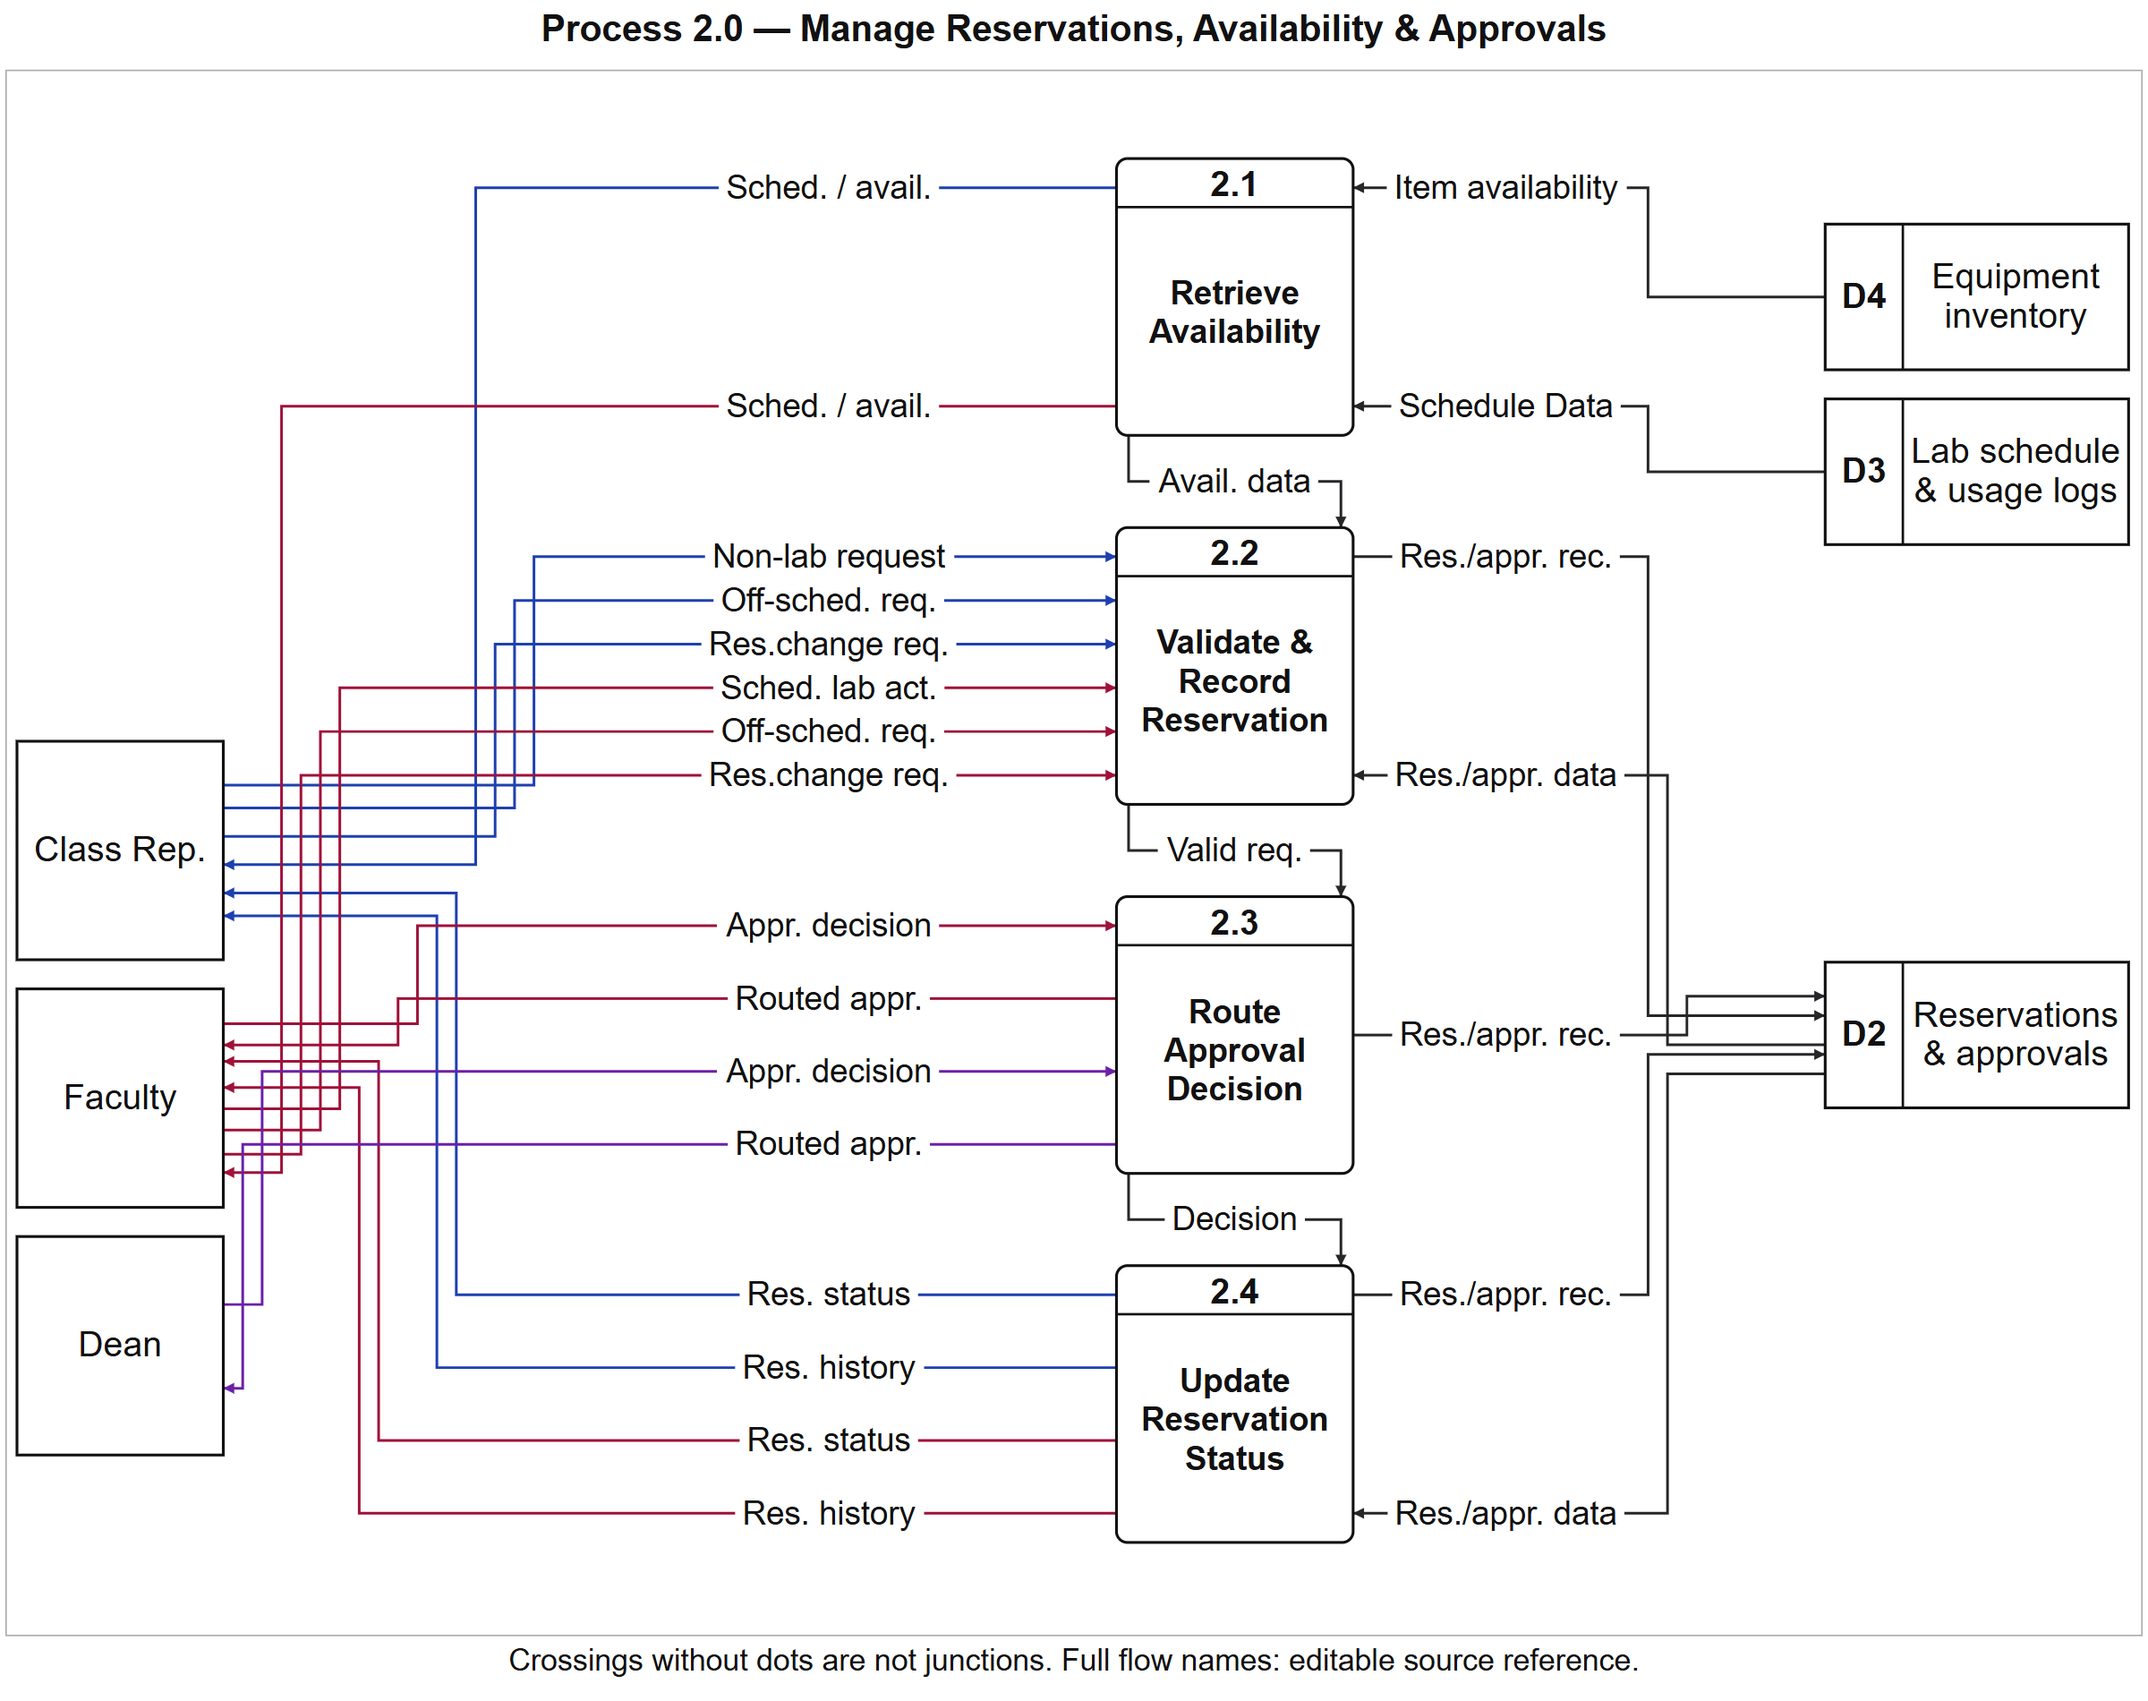
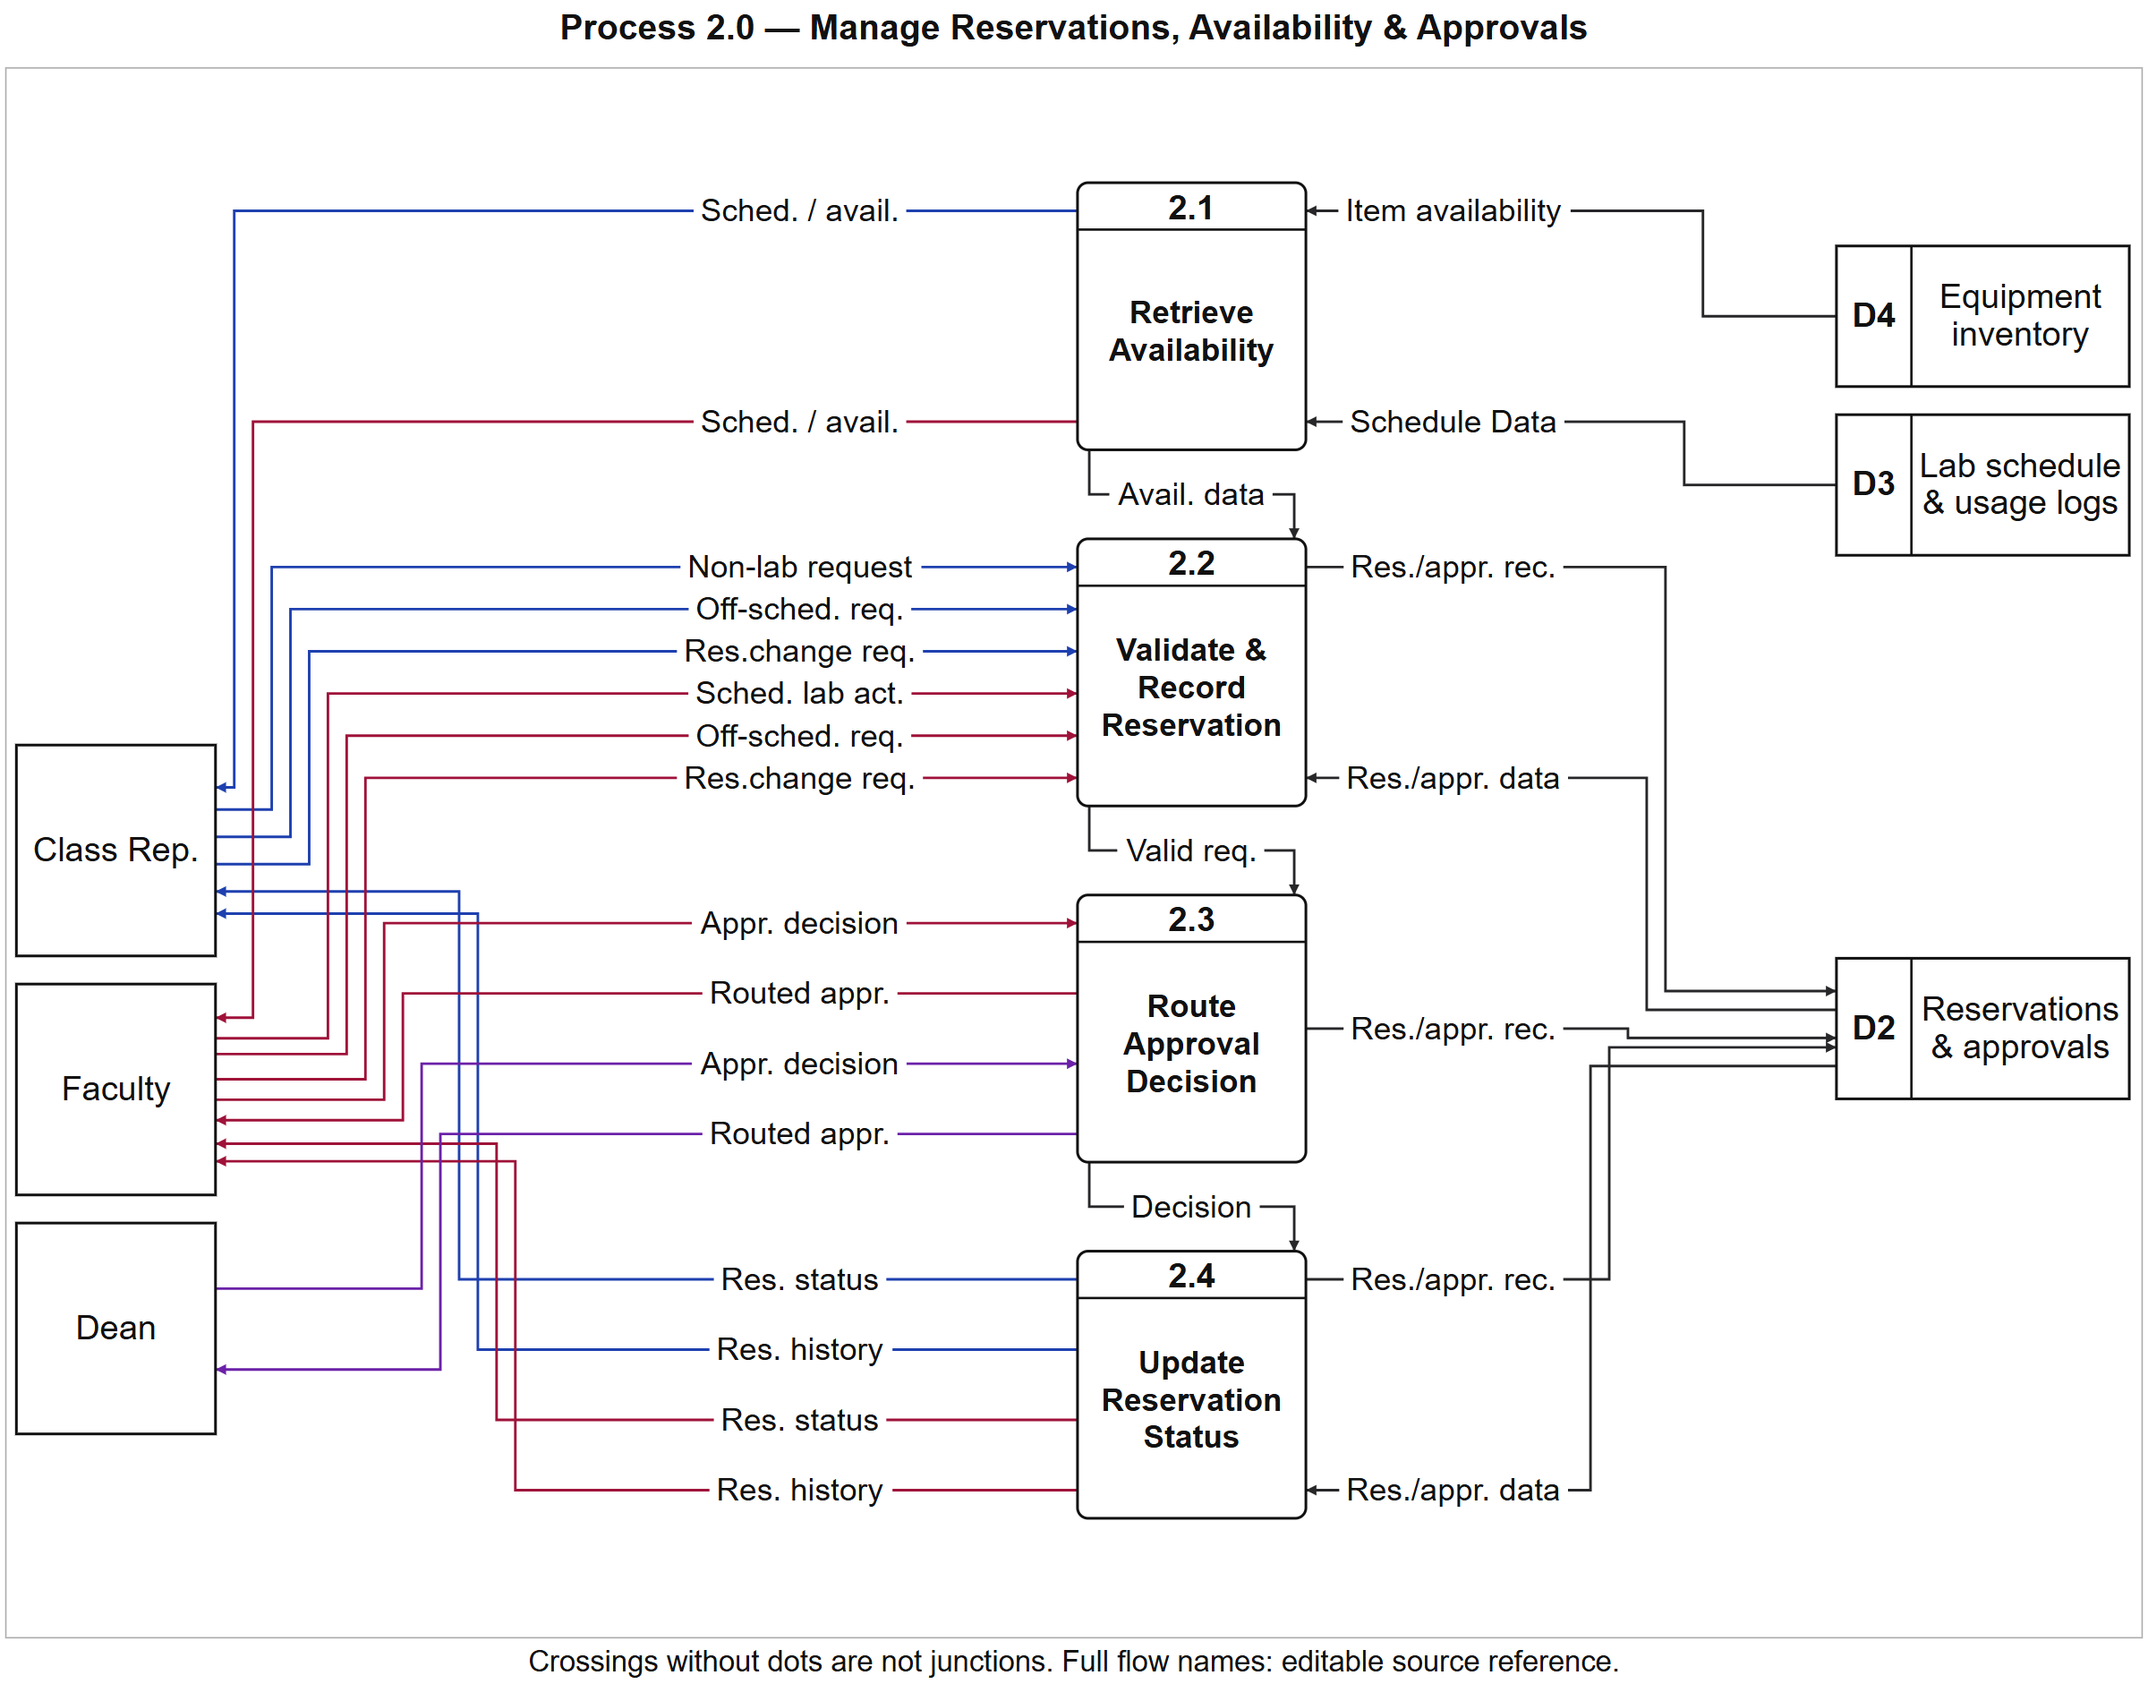
New Update

diff --git a/assets/figures-v2/dfd-level2-compact/dfd-level2-renderer.js b/assets/figures-v2/dfd-level2-compact/dfd-level2-renderer.js
@@ -4,7 +4,7 @@
 (async function(){
   'use strict';
   const params=new URLSearchParams(location.search),output=params.has('embed')||params.has('export');
-  const NS='http://www.w3.org/2000/svg',W=1770,H=1401.25,FONT=27,LABEL_GAP=6;
+  const NS='http://www.w3.org/2000/svg',W=1834,H=1451.9166666667,FONT=27,LABEL_GAP=6;
   document.body.classList.toggle('output-mode',output);
   const aliases={
     'Class Representative Credentials':'Rep. credentials',
@@ -132,7 +132,7 @@
     const targets={};
     [...actors,...stores].forEach(n=>{const links=model.flows.filter(f=>f.source===n.id||f.target===n.id);targets[n.id]=links.reduce((sum,f)=>sum+centre(nodes[f.source===n.id?f.target:f.source]),0)/links.length;});
     const E={x:14,w:170,h:Math.max(170,...actors.map(n=>model.flows.filter(f=>f.source===n.id||f.target===n.id).length*20+20))};
-    const D={x:1504,w:250,h:120,idw:64};
+    const D={x:1568,w:250,h:120,idw:64};
     // Actor order follows the approved role column; Head Laboratory remains last.
     place(actors,targets,E.h).forEach(n=>nodes[n.id]={...n,...E,kind:'entity',lines:entityLines[n.id]});
     place(stores.slice().sort((a,b)=>targets[a.id]-targets[b.id]),targets,D.h).forEach(n=>nodes[n.id]={...n,...D,kind:'store',lines:storeLines[n.id]});
@@ -158,7 +158,10 @@
       [...actors,...stores].filter(n=>(kind==='external'?actors:stores).includes(n)).forEach(n=>{
         const box=nodes[n.id],process=f=>nodes[f.source===n.id?f.target:f.source];
         const own=model.flows.filter(f=>f.source===n.id||f.target===n.id);
-        own.sort((a,b)=>Math.abs(centre(process(a))-centre(box))-Math.abs(centre(process(b))-centre(box))||process(a).y-process(b).y||model.flows.indexOf(a)-model.flows.indexOf(b));
+        // User-approved order: highest subprocess first on BOTH peer columns,
+        // regardless of direction or distance. Within a subprocess, preserve
+        // its approach-port order so paired read/write flows do not swap rows.
+        own.sort((a,b)=>process(a).y-process(b).y||flowPorts[a.id].py-flowPorts[b.id].py||model.flows.indexOf(a)-model.flows.indexOf(b));
         let previous=box.y+8;
         own.forEach((f,i)=>{
           const preferred=box.y+20+(i+.5)*(box.h-40)/own.length;let sy=null;
@@ -171,16 +174,15 @@
         });
       });
     }
-    const left=model.flows.filter(f=>f.kind==='external').sort((a,b)=>nodes[flowPorts[a.id].peer].y-nodes[flowPorts[b.id].peer].y||flowPorts[a.id].peerOrder-flowPorts[b.id].peerOrder);
-    const laneById={};left.forEach((f,i)=>laneById[f.id]=200+(left.length-1-i)*16);
-    const right=model.flows.filter(f=>f.kind==='store').sort((a,b)=>Math.min(flowPorts[a.id].py,flowPorts[a.id].sy)-Math.min(flowPorts[b.id].py,flowPorts[b.id].sy));
-    const occupied=[];
-    right.forEach((f,i)=>{
-      const {py,sy}=flowPorts[f.id],lo=Math.min(py,sy),hi=Math.max(py,sy);
-      const column=Array.from({length:9},(_,j)=>j).find(j=>occupied.every(o=>o.column!==j||Math.min(hi,o.hi)+12<Math.max(lo,o.lo)));
-      if(column===undefined)throw Error('Store lanes need more room: '+f.id);
-      occupied.push({column,lo,hi});laneById[f.id]=1358+column*16+(i+1)*.01;
-    });
+    // Mirror the vertical lane order across the process column. Earlier
+    // process ports get the outermost lane: leftmost for entities, rightmost
+    // for stores. Each flow owns a distinct lane, even for disjoint spans.
+    const processOrder=(a,b)=>flowPorts[a.id].py-flowPorts[b.id].py;
+    const left=model.flows.filter(f=>f.kind==='external').sort(processOrder);
+    const right=model.flows.filter(f=>f.kind==='store').sort(processOrder);
+    const laneById={};
+    left.forEach((f,i)=>laneById[f.id]=200+i*16);
+    right.forEach((f,i)=>laneById[f.id]=1358+(right.length-1-i)*16);
     function draw(f,points,lx,ly,label,colorKey,side){
       const path=el('path',{class:'diagram-connector','data-flow-id':f.id,d:points.map((p,i)=>(i?'L':'M')+p.join(' ')).join(' '),fill:'none',stroke:colors[colorKey]||'#27272a','stroke-width':2.2,'marker-end':'url(#arrow-'+colorKey+')'});
       const title=el('title');title.textContent=f.label;path.appendChild(title);paths.appendChild(path);
@@ -222,7 +224,7 @@
     clearLabelStrokes(svg);
     window.__level2={model,parent,nodes,routes,labelBoxes,constants:{W,H,P,E,D,FONT}};
     if(!output){
-      const authored=svg.cloneNode(true);window.SOMADADiagramEditor.init(svg,{storageKey:'dfd-level2-head-only-logs-'+model.id+'-v2'});
+      const authored=svg.cloneNode(true);window.SOMADADiagramEditor.init(svg,{storageKey:'dfd-level2-mirrored-process-lanes-'+model.id+'-v4'});
       svg.querySelectorAll('.diagram-connector-hit').forEach(hit=>hit.removeAttribute('stroke-dasharray'));
       window.addEventListener('beforeprint',()=>svg.replaceWith(authored));window.addEventListener('afterprint',()=>authored.replaceWith(svg));
     }

diff --git a/assets/figures-v2/dfd-level2-compact/PRINT-READABILITY.md b/assets/figures-v2/dfd-level2-compact/PRINT-READABILITY.md
@@ -2,7 +2,7 @@
 
 The active source is `dfd-level2-model.json`, drawn by `dfd-level2-renderer.js` through `dfd-level2-compact.html?process=p1` (p1–p5). The former dedicated P5 script is no longer loaded.
 
-Each parent has its own 1200 × 950 publication frame and 2400 × 1900 PNG. The internal coordinate space is 1770 × 1401.25. Boundary labels are 27 units, approximately 7.5 pt at the current A4 document width. Shapes are white with black borders; entity-specific arrow colors match Level 1. No label box covers other arrows: only the label's own stroke is interrupted.
+Each parent has its own 1200 × 950 publication frame and 2400 × 1900 PNG. The internal coordinate space is 1834 × 1451.9167, widened slightly to fit distinct ordered store lanes while preserving the publication aspect ratio. Boundary labels are 27 units, approximately 7.3 pt at the current A4 document width. Shapes are white with black borders; entity-specific arrow colors match Level 1. No label box covers other arrows: only the label's own stroke is interrupted.
 
 All 74 current Level 1 flows are mapped by stable parent IDs. Repeated store reads/writes represent separate child stages, not additional parent features.
 
@@ -16,7 +16,11 @@ All 74 current Level 1 flows are mapped by stable parent IDs. Repeated store rea
 
 Short print aliases have full canonical names in the interactive flow reference. Each figure has unique peers, uniform dimensions within each node class, separate ports and paths, and a vertically ordered process column. Logs, schedules and daily tasks remain Head Laboratory only; Q&A remains informational.
 
+Entity right-edge ports and store left-edge ports now follow subprocess order from top to bottom, not shortest-route-first. For example, connections involving 4.1 sit above 4.3, then 4.4 and 4.5 on the same store. Incoming and outgoing flows participate in the same ordering; flows belonging to one subprocess preserve that process's approach-port order. This user override replaces the skill's distance-based entity-port ordering. Existing approved crossings remain without junctions, with no shared ports or overlapping runs. The editor storage version is updated so older saved routes do not override the new arrangement. The audit checks peer-port ordering on all five figures as well as balancing, attached endpoints, label clearance and editor behavior.
+
 Run `node integrations/google-docs/check-level2.cjs --render` with Playwright available to audit all figures and regenerate the five PNGs. Run `check-pages.cjs` to verify intact A4 images and read-only sync capture. Browser edits are stored locally; print and embed/export use the audited authored layout.
+
+Vertical routing lanes also follow subprocess order: on the store side, the highest process owns the rightmost lane and later process ports step left; the entity side mirrors this, starting leftmost and stepping right. All lanes on each side are distinct with 16 internal units of separation, including routes whose vertical spans do not overlap. Direction does not affect lane ownership. The geometry audit checks this mirrored ordering in addition to the top-to-bottom peer ports. Editor storage version 4 prevents older manual routes from overriding these authored lanes.
 
 Level 0 uses the same visual rules in `../dfd-level0/dfd-level0-portrait.js`: one process, six uniform entities, 46 independent horizontal arrows, 22-unit labels on a 1200 × 1500 portrait canvas, exported at 2400 × 3000. It derives boundary exchanges directly from Level 1. Run `check-dfd-scope.cjs --render` to audit and regenerate it.
 
